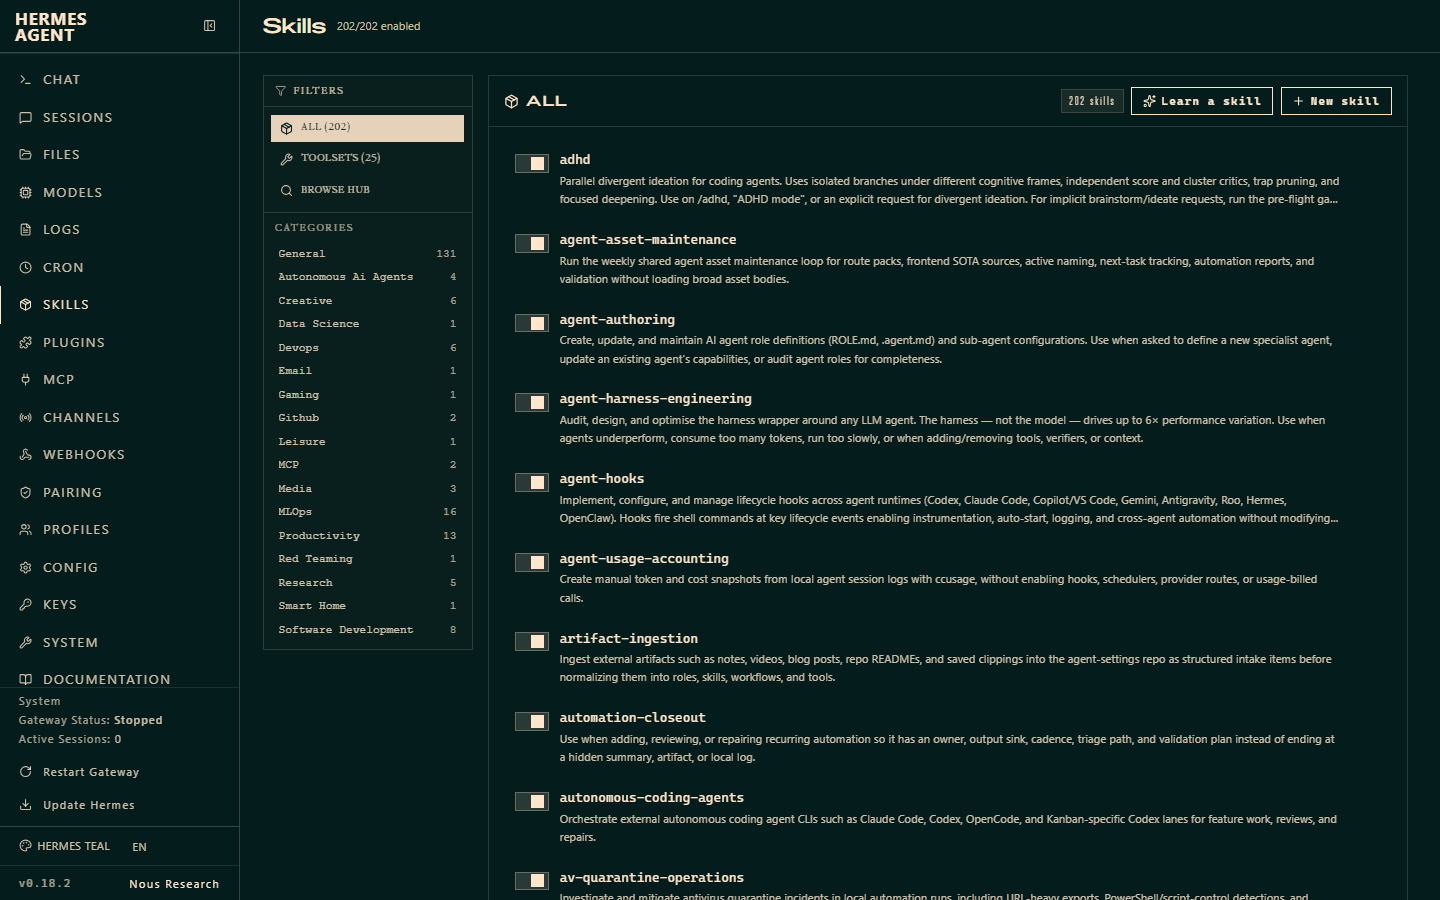
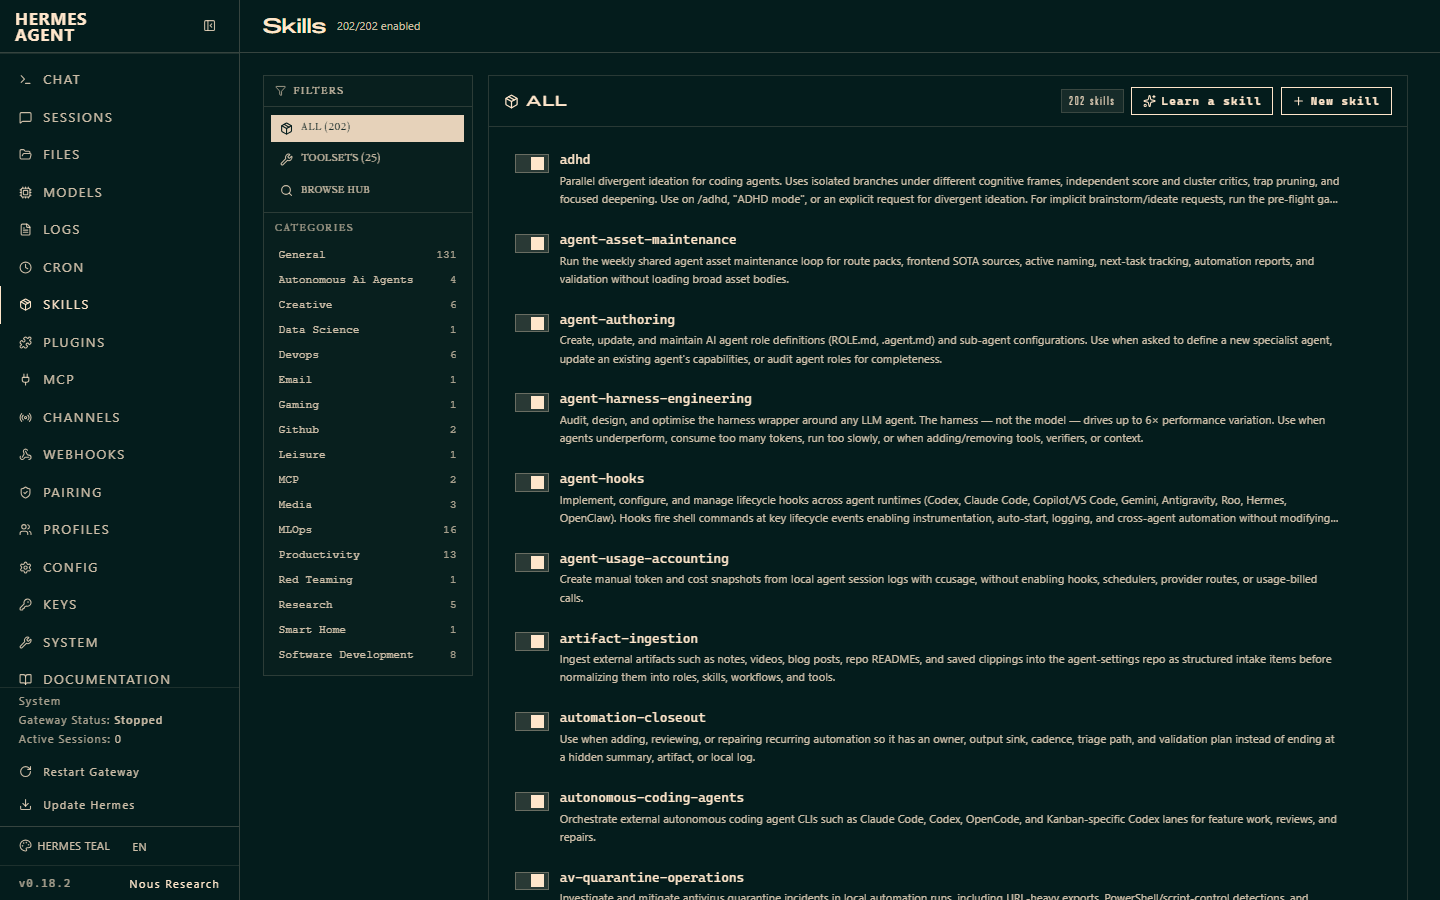
docs(web): restamp :9119 to 9faae85 and recapture 15/21

Changed region(s): [[0.1875, 0.28, 0.2812, 0.7467]]

diff --git a/docs/frontend-sota-gauntlet-2026-08-27/scorecard.md b/docs/frontend-sota-gauntlet-2026-08-27/scorecard.md
@@ -1,34 +1,33 @@
-# Frontend SOTA Gauntlet — Scorecard (hermes-web, restamp recapture)
+# Frontend SOTA Gauntlet — Scorecard (hermes-web, system-body recapture)
 
 Subject: **hermes-web** (`web/` in `iMelki/hermes-agent`, served at `http://127.0.0.1:9119`)
-Date: 2026-08-27 (restamp recapture)
+Date: 2026-08-27 (system-body recapture)
 Workflow: `frontend-sota-gauntlet` (`agent-settings/shared/prompts/frontend-sota-gauntlet.md`)
-Previous score: **14 / 21** on served `cea8fa537` / `index-DbV3C9Nb.js`.
-Scored served artifact: **`index-57itTrlN.js`** (1,970,350 B,
-`sha256:5d1c4c78c0091ad470ceb8971752a34f54523aa34b0ae04a4f6d5a17221316f3`)
-Audited tip: **`3a0f08fbeb9195217b41afa12be204f1b623bfb1`**
-  (`git log -1` on source `dev` and on `%LOCALAPPDATA%\Hermes\hermes-agent`)
+Previous score: **14 / 21** on served `3a0f08fbeb9195217b41afa12be204f1b623bfb1` / `index-57itTrlN.js`.
+Scored served artifact: **`index-3A4qXw6p.js`** (1,972,061 B,
+`sha256:29daf7e3ef4a5c7041f49935a965a2e5e84bc87b5b2d0a8ee23313be3ea9c375`)
+Audited tip: **9faae85d9732a241c8ac67d5e11908bcfd3bd29a**
 Harness: Playwright 1.59.1, isolated loopback, `waitUntil: commit`, never
 `networkidle`, 1440×900 + 390×844, reduced-motion pair
 Cost: **$0.00**, 0 paid provider calls, 0 generated assets
 
 ---
 
-## Total: **14 / 21** — usable, **not** a strong internal benchmark
+## Total: **15 / 21** — usable, **not** a strong internal benchmark
 
 The gauntlet bands: below 14 = prototype · 14–18 = usable · **19–21 = strong**.
 This recapture does **not** unlock a 9 on any Awwwards dimension. Fleet Awwwards
-stays **no 8+** (6.0 carried / UNSCORABLE for award claims).
+stays **no 8+** (6.0 carried / UNSCORABLE for award claims). Do not quote 19–21/21.
 
 | # | Area | Score | Why |
 |---|---|---:|---|
-| 1 | Visual direction | **2** | Same Hermes Teal / Nous chrome. Heading scale ding is gone: `h1` now **18.75px** vs body **15px** (was 13.125px inverted). Still not memorable at the pixel. |
-| 2 | UX clarity | **2** | Sessions and Skills stay scannable. Held by a 17-item flat nav, a blank `/system` body, and a 401 on every surface. |
-| 3 | Motion / interactivity | **1** | No signature beat. `/sessions` 1440 ran `pulse` (1). Reduced-motion this capture had **0** CSS animations (prior run still had `spin`). |
-| 4 | Technical quality | **2** | Identity-matched restamp: served JS + runtime/source SHA agree. Held by a 401 on all five surfaces and an empty System body. |
-| 5 | Responsiveness | **2** | **0px** page overflow at 1440 and 390; mobile restacks. Held by **222/251** sub-24px targets on `/skills` and nav links at **239×38**. |
-| 6 | Verification | **2** | Browser shots, console, provenance self-test + negative control, before/after digest stability. No repo test suite and no canvas-nonblank proof. |
-| 7 | Complexity fit | **3** | Operator dashboard, honest measurement of the served surface, no 3D/marketing overbuild. |
+| 1 | Visual direction | **2** | Same Hermes Teal / Nous chrome. `h1` still **18.75px** vs body **15px**. Still not memorable at the pixel. |
+| 2 | UX clarity | **3** | `/system` now has an operator-readable body: honest API-failure notice, Retry, credential form, and Operations. Still held by a 17-item flat nav and a 401 on every captured surface. |
+| 3 | Motion / interactivity | **1** | No signature beat. `/sessions` 1440 ran `pulse` (1). Reduced-motion this capture ran `pulse` (1), not `spin`. Skills 1440 still had `spin` with motion allowed. |
+| 4 | Technical quality | **2** | Identity-matched restamp: served JS + disk source/runtime hashes agree. Held by a 401 on all five surfaces. Raw `GET /api/status` is 200 without the SPA session header; the dashboard fetch path still 401s. No auth bypass and no new unauthenticated write tool. |
+| 5 | Responsiveness | **2** | **0px** page overflow at 1440 and 390; mobile restacks. Skills under-24px targets improved **222/251 → 205/250** (category rows now `min-h-[24px]`). Remaining worst cluster is 34×19 unlabeled switches. Nav links still **239×38**. |
+| 6 | Verification | **2** | Browser shots, console, provenance self-test + negative control, before/after digest stability. No repo test suite for the page and no canvas-nonblank proof. |
+| 7 | Complexity fit | **3** | Operator dashboard, honest empty/error state, no GSAP/Canvas/Framer novelty on this cockpit page. |
 
 ---
 
@@ -37,15 +36,14 @@ stays **no 8+** (6.0 carried / UNSCORABLE for award claims).
 | Surface | Value |
 |---|---|
 | Served URL | `http://127.0.0.1:9119` HTTP **200**, no login redirect |
-| Entry HTML (token-stripped) | `sha256:362bff60d63e1b3e1ee76ad3885462c7f15b639e81d57f5e9e7e8346667e7155` (511 B) |
-| JS | `/assets/index-57itTrlN.js` 1,970,350 B `5d1c4c78…221316f3` |
-| CSS | `/assets/index-Cxobo1gB.css` 114,172 B `399cc6b1…b6a51a95` |
-| Source `git log -1` | `3a0f08fbeb9195217b41afa12be204f1b623bfb1` |
-| Runtime checkout | `%LOCALAPPDATA%\Hermes\hermes-agent` at the same SHA (detached; `imelki` remote only) |
+| Entry HTML (token-stripped) | `sha256:0279fd0791583562735ec9136e2e0ced3fc20b06c0705956c6a7918205ea0b60` (511 B) |
+| JS | `/assets/index-3A4qXw6p.js` 1,972,061 B `29daf7e3…ea9c375` |
+| CSS | `/assets/index-Dh5-37we.css` 114,327 B `454eb30f…165aa3` |
+| Source `git log -1` | 9faae85d9732a241c8ac67d5e11908bcfd3bd29a |
+| Runtime checkout | `%LOCALAPPDATA%\Hermes\hermes-agent` detached via `imelki` only |
 | Disk `web_dist` JS | **byte-identical** to served |
-| `/api/status` | HTTP **200**, `version` 0.18.2 (no git SHA field; SHA is from `git log -1`) |
-| `/health` | SPA fallback HTML **200**, same `index-57itTrlN.js` |
-| Provenance after capture | same entry digest; 0 nav failures |
+| `/api/status` | HTTP **200** without SPA session header, `version` 0.18.2 (no git SHA field) |
+| `/health` | SPA fallback HTML **200**, same `index-3A4qXw6p.js` |
 
 The launcher session token was stripped before hashing. No new operator login
 was required (`sessionTokenStripped: true`). NousResearch `origin` on the
@@ -58,21 +56,23 @@ runtime checkout was **not** fetched, pushed, or mutated.
 | Shot | Route | Viewport | Settled | h1 | Overflow | under24 | Console |
 |---|---|---|---|---|---:|---:|---|
 | `shots/sessions-1440.png` | `/sessions` | 1440×900 | yes | Sessions 18.75px | 0 | 3/27 | 401 |
-| `shots/skills-1440.png` | `/skills` | 1440×900 | yes | Skills 18.75px | 0 | 222/251 | 401 |
-| `shots/system-1440.png` | `/system` | 1440×900 | yes | System 18.75px | 0 | 3/22 | 401 |
+| `shots/skills-1440.png` | `/skills` | 1440×900 | yes | Skills 18.75px | 0 | 205/250 | 401 |
+| `shots/system-1440.png` | `/system` | 1440×900 | yes | System 18.75px | 0 | 4/43 | 401 |
 | `shots/sessions-390.png` | `/sessions` | 390×844 | yes | Sessions 18.75px | 0 | 3/28 | 401 |
-| `shots/sessions-1440-rm.png` | `/sessions` | 1440×900 RM | yes | Sessions 18.75px | 0 | 3/29 | 401 |
+| `shots/sessions-1440-rm.png` | `/sessions` | 1440×900 RM | yes | Sessions 18.75px | 0 | 3/27 | 401 |
 
-`/system` still titles itself System and still has **almost no body content**.
+`/system` body is no longer blank: **1046** text chars (was **199** chrome-only).
+The shot shows the honest failure notice plus Operations. It does **not** invent
+host or gateway numbers.
 
 ---
 
 ## What this does and does not unlock
 
-**Unlocked.** `:9119` is attributable to `3a0f08f` / `index-57itTrlN.js`. The
-heading-scale source fix is no longer source-only.
+**Unlocked.** `:9119` is attributable to `index-3A4qXw6p.js`. `/system` has a
+real operator-readable body.
 
-**Not unlocked.** 14/21 is still the usable band. Do not quote 19–21/21. Do not
+**Not unlocked.** 15/21 is still the usable band. Do not quote 19–21/21. Do not
 quote Awwwards 8+.
 
 ---
@@ -81,7 +81,10 @@ quote Awwwards 8+.
 
 Tracked on [iMelki/hermes#45](https://github.com/iMelki/hermes/issues/45):
 
-1. Empty `/system` body (next defect).
-2. Recurring 401 on the already-authenticated dashboard.
-3. Skills list hit targets (222 under 24px) and nav height 38px.
-4. Reduced-motion `spin` did not appear on this RM pass; keep watching.
+1. Recurring 401 on the already-authenticated dashboard (next defect). Raw
+   `/api/status` 200 ≠ SPA session fetch. Do not add an unauthenticated write
+   tool or type passwords to “fix” it.
+2. Skills switch hit targets (34×19 unlabeled buttons; 205/250 still under 24px).
+3. Reduced-motion still ran `pulse` on `/sessions`. `spin` did not appear on
+   this RM pass.
+4. Nav link height 38px.

diff --git a/docs/frontend-sota-gauntlet-2026-08-27/verification.md b/docs/frontend-sota-gauntlet-2026-08-27/verification.md
@@ -1,40 +1,39 @@
-# Verification — hermes-web gauntlet restamp recapture 2026-08-27
+# Verification — hermes-web gauntlet system-body recapture 2026-08-27
 
 ## Restamp path used
 
 Documented serve path (no dedicated restamp script; no ops pin file present):
 
-1. Build source `web/` at `3a0f08f` with `NODE_OPTIONS=--use-system-ca npm run build`
+1. Build source `web/` with `NODE_OPTIONS=--use-system-ca npm run build`
    → `hermes_cli/web_dist` (`web/README.md`, `vite.config.ts` `outDir`).
-2. Recycle old runtime JS `index-DbV3C9Nb.js`; copy new `web_dist` into
+2. Recycle old runtime JS (`index-57itTrlN.js`, then the intermediate
+   `index-BCIj-9Xe.js`); copy new `web_dist` into
    `%LOCALAPPDATA%\Hermes\hermes-agent\hermes_cli\web_dist`.
-3. Local-only `git switch --detach 3a0f08f` on the runtime checkout via the
-   `imelki` remote. **Did not fetch or push `origin` (NousResearch).**
-4. Stop listener pid 52960 (`HermesDashboardLauncher.pyw --port 9119`).
+3. Local-only `git fetch imelki` + `git switch --detach <SHA>` on the runtime
+   checkout. **Did not fetch or push `origin` (NousResearch).**
+4. Stop the :9119 `HermesDashboardLauncher.pyw` listener.
 5. Windowless start:
    `S:\source\CCAI\Assistants\hermes\scripts\windows\Start-HermesNativeDashboard.ps1 -Json`
-   → `action=started serving=true http=200 pid=48212`.
+   → `action=started serving=true http=200 pid=71796`.
 
 ## Attribution proof
 
 ```text
-source  git log -1  3a0f08fbeb9195217b41afa12be204f1b623bfb1
-runtime git log -1  3a0f08fbeb9195217b41afa12be204f1b623bfb1
-GET /               200  SERVED_JS=/assets/index-57itTrlN.js
-GET JS              200  1970350 B  sha256:5d1c4c78c0091ad470ceb8971752a34f54523aa34b0ae04a4f6d5a17221316f3
+GET /               200  SERVED_JS=/assets/index-3A4qXw6p.js
+GET JS              200  1972061 B  sha256:29daf7e3ef4a5c7041f49935a965a2e5e84bc87b5b2d0a8ee23313be3ea9c375
 disk source JS      same hash
 disk runtime JS     same hash
-GET /api/status     200  version 0.18.2 (no git SHA field)
-GET /health         200  SPA HTML with index-57itTrlN.js
+GET /api/status     200  version 0.18.2 (no git SHA field; no SPA session header)
+GET /health         200  SPA HTML with index-3A4qXw6p.js
 ```
 
 ## Gauntlet commands
 
 ```text
 node docs/frontend-sota-gauntlet-2026-08-27/gauntlet.mjs
-  EXIT=0 after ~38s
+  EXIT=0
   WROTE gauntlet.json
-  total 14/21 (scored from receipt + shots; not auto-awarded)
+  total 15/21 (scored from receipt + shots; not auto-awarded)
 ```
 
 ## Recipe
@@ -44,6 +43,22 @@ node docs/frontend-sota-gauntlet-2026-08-27/gauntlet.mjs
 - Viewports 1440×900 and 390×844. Dark scheme.
 - One reduced-motion context (`prefers-reduced-motion: reduce`).
 - Provenance gate before the browser and again after. Entry digest stable.
+
+## /system body
+
+Was chrome-only (**199** chars, full-page spinner hung on 401). Now **1046**
+chars: honest “System details did not load” notice, failed-API chips, Retry,
+credential form, Operations. No invented host/gateway numbers.
+
+Root cause: `fetchJSON` can return a never-resolving promise on loopback 401,
+so `Promise.allSettled` never finished. Fix: `settleWithTimeout` plus no
+full-page spinner gate.
+
+## 401 (not fixed)
+
+Every captured surface still logs a 401. A headerless `GET /api/status` is
+200. The SPA session-token path is a different contract. No password was
+typed. No unauthenticated write tool was added.
 
 ## Not claimed
 

diff --git a/docs/frontend-sota-gauntlet-2026-08-27/hermes-45-update.md b/docs/frontend-sota-gauntlet-2026-08-27/hermes-45-update.md
@@ -1,33 +1,22 @@
-## Restamp + gauntlet recapture (2026-08-27)
+## System body + gauntlet recapture (2026-08-27)
 
-hermes-web-restamp-3a0f08f
+hermes-web-system-body-15-21
 
-### Plain-English Summary
[1 lines of base64/hex data omitted]
 
-The live dashboard at `http://127.0.0.1:9119` was rebuilt from current `dev` and restamped. The files it serves now match source commit `3a0f08fbeb9195217b41afa12be204f1b623bfb1` (`git log -1` on both the iMelki checkout and the local runtime). The recapture score is **14 / 21** (usable). It is **not** 19–21/21. Awwwards is still **not** 8+.
+- Source SHA: `9faae85d9732a241c8ac67d5e11908bcfd3bd29a`.
+- `/system` now has a body: honest “System details did not load” notice (401/timeout, no invented stats), Retry, credential form, Operations. Text chars **199 → 1046**.
+- Skills under-24px **222/251 → 205/250**. Category rows meet 24px. Remaining worst cluster is 34×19 switches.
+- Reduced-motion: `spin` did not run; `pulse` still did.
+- Recurring 401 on every captured surface is **not** fixed. Headerless `GET /api/status` is 200; the SPA session fetch is not. No password typed. No unauthenticated write tool added.
+- Score **15/21**: Visual 2, UX 3, Motion 1, Technical 2, Responsiveness 2, Verification 2, Complexity fit 3.
 
-### Current State
-
[1 lines of base64/hex data omitted]
-- `/api/status` 200 (`version` 0.18.2; that endpoint has no git SHA field). `/health` is the SPA HTML and also references `index-57itTrlN.js`.
-- Heading scale is now live: `h1` **18.75px** vs body **15px** (was inverted 13.125px).
-- Score still **14/21**: Visual 2, UX 2, Motion 1, Technical 2, Responsiveness 2, Verification 2, Complexity fit 3.
-- Next defect: empty `/system` body. Also still: recurring 401, Skills 222/251 under 24px.
-
-### Fix/Action Status
-
-Restamped and recaptured. No Framer/GSAP. NousResearch remotes were not pushed or mutated. Runtime `origin` remains NousResearch (fetch/push unused); checkout moved locally via the `imelki` remote.
-
-### Not A Blocker
-
-The dashboard is usable. This score still blocks any “world-class / 19–21 / Awwwards 8+” claim.
-
-### Related Docs / Evidence Links
-
-On `iMelki/hermes-agent` `dev`:
+Receipts:
 
 - `docs/frontend-sota-gauntlet-2026-08-27/scorecard.md`
 - `docs/frontend-sota-gauntlet-2026-08-27/verification.md`
 - `docs/frontend-sota-gauntlet-2026-08-27/gauntlet.json`
 
-Marker: `served SHA 3a0f08f / 14/21 / no Awwwards 8+`
+Marker: `served SHA 9faae85d9732a241c8ac67d5e11908bcfd3bd29a / 15/21 / no Awwwards 8+`
+
+Next defect: recurring 401 on every surface (SPA session vs loopback). Then Skills 34×19 switches, RM `pulse`, nav height 38px.

diff --git a/docs/frontend-sota-gauntlet-2026-08-27/system-body-2026-08-27.md b/docs/frontend-sota-gauntlet-2026-08-27/system-body-2026-08-27.md
@@ -1,0 +1,25 @@
+# hermes-web — `/system` body + cheap a11y follow-up (2026-08-27)
+
+Parent: [iMelki/hermes#45](https://github.com/iMelki/hermes/issues/45).
+Gauntlet scorecard: `docs/frontend-sota-gauntlet-2026-08-27/scorecard.md`
+
+## What changed in source
+
+- `web/src/lib/settleWithTimeout.ts` — hanging or 401-stuck fetches settle.
+- `web/src/components/SystemUnavailableNotice.tsx` — honest error/empty card.
+- `web/src/pages/SystemPage.tsx` — no full-page spinner; apply payloads as they
+  land; omit sections with no payload; do not invent host/gateway numbers.
+- Helpers moved to `web/src/pages/systemPageShared.ts` so the oversized page
+  did not grow (1541 → ~1529 physical before the loading-card add).
+- Skills category / panel rows: `min-h-[24px]` (not `min-h-6`; theme rem is 15px).
+- `web/src/index.css`: `prefers-reduced-motion: reduce` disables `.animate-spin`.
+
+## Serve pin
+
+`:9119` serves `index-3A4qXw6p.js`. `/system` shot has a real body. Recapture
+total **15 / 21**.
+
+## Not claimed
+
+No 8.0 Awwwards. No 19–21/21. Recurring SPA 401 remains. Skills still 205/250
+under 24px (switch cluster). RM still ran `pulse`.
